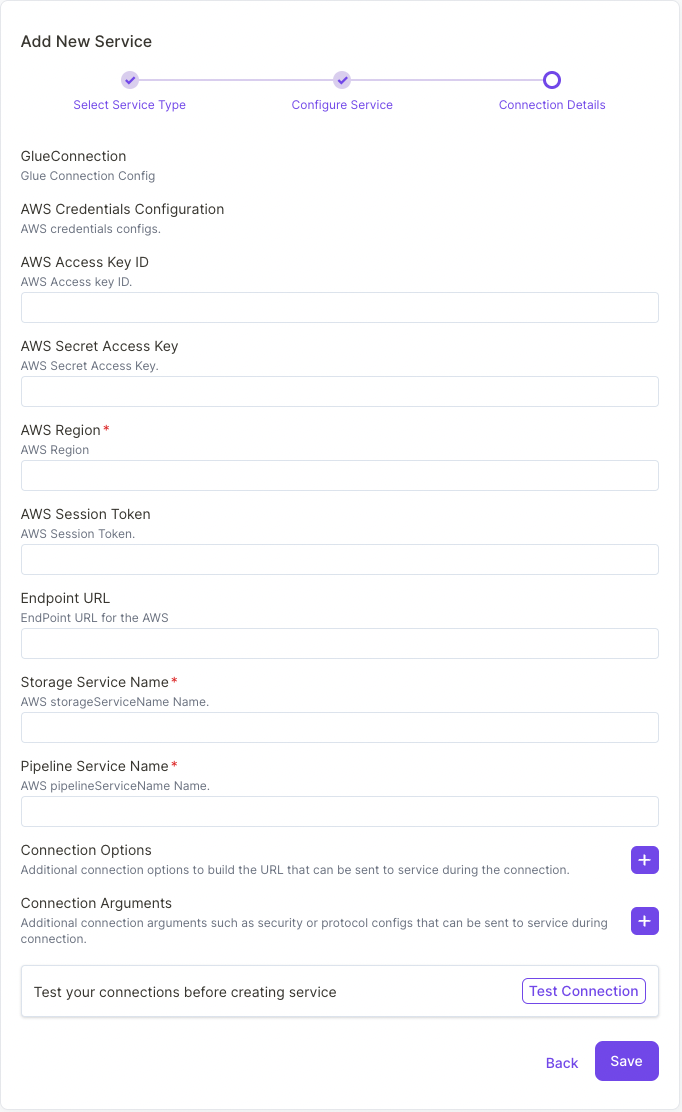
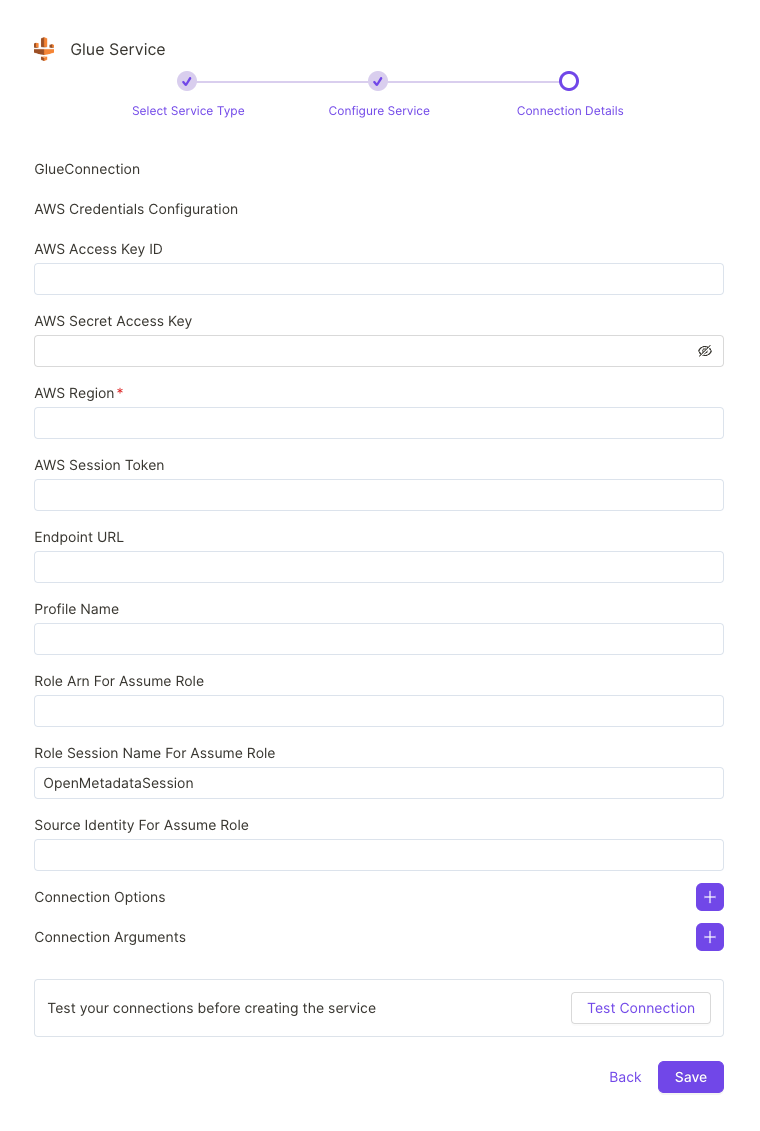
Rel to #10805 - Ingestion docs glue & Kerberos Dep (#11157)
* Glue

* Add kerberos system dep

diff --git a/openmetadata-ui/src/main/resources/ui/public/locales/en-US/Pipeline/GluePipeline.md b/openmetadata-ui/src/main/resources/ui/public/locales/en-US/Pipeline/GluePipeline.md
@@ -1,79 +1,144 @@
 # GluePipeline
 
-In this section, we provide guides and references to use the GluePipeline connector.
+In this section, we provide guides and references to use the Glue connector for Pipeline Services.
 
 # Requirements
-<!-- to be updated -->
+
+The Glue connector ingests metadata through AWS [Boto3](https://boto3.amazonaws.com/v1/documentation/api/latest/reference/services/glue.html) Client.
+We will ingest Workflows, its jobs and their run status.
+
+The user must have the following permissions for the ingestion to run successfully:
+
+- `glue:ListWorkflows`
+- `glue:GetWorkflow`
+- `glue:GetJobRuns`
+
 You can find further information on the Kafka connector in the [docs](https://docs.open-metadata.org/connectors/pipeline/gluepipeline).
 
 ## Connection Details
 
 $$section
-### Aws Config $(id="awsConfig")
+### AWS Access Key ID $(id="awsAccessKeyId")
 
-AWS credentials configs.
-<!-- awsConfig to be updated -->
+When you interact with AWS, you specify your AWS security credentials to verify who you are and whether you have
+permission to access the resources that you are requesting. AWS uses the security credentials to authenticate and
+authorize your requests ([docs](https://docs.aws.amazon.com/IAM/latest/UserGuide/security-creds.html)).
+
+Access keys consist of two parts:
+1. An access key ID (for example, `AKIAIOSFODNN7EXAMPLE`),
+2. And a secret access key (for example, `wJalrXUtnFEMI/K7MDENG/bPxRfiCYEXAMPLEKEY`).
+
+You must use both the access key ID and secret access key together to authenticate your requests.
+
+You can find further information on how to manage your access keys [here](https://docs.aws.amazon.com/IAM/latest/UserGuide/id_credentials_access-keys.html)
 $$
 
 $$section
-### Aws Access Key Id $(id="awsAccessKeyId")
+### AWS Secret Access Key $(id="awsSecretAccessKey")
 
-AWS Access key ID.
-<!-- awsAccessKeyId to be updated -->
-$$
-
-$$section
-### Aws Secret Access Key $(id="awsSecretAccessKey")
-
-AWS Secret Access Key.
-<!-- awsSecretAccessKey to be updated -->
+Secret access key (for example, `wJalrXUtnFEMI/K7MDENG/bPxRfiCYEXAMPLEKEY`).
 $$
 
 $$section
 ### Aws Region $(id="awsRegion")
 
-AWS Region
-<!-- awsRegion to be updated -->
+Each AWS Region is a separate geographic area in which AWS clusters data centers ([docs](https://docs.aws.amazon.com/AmazonRDS/latest/UserGuide/Concepts.RegionsAndAvailabilityZones.html)).
+
+As AWS can have instances in multiple regions, we need to know the region the service you want reach belongs to.
+
+Note that the AWS Region is the only required parameter when configuring a connection. When connecting to the
+services programmatically, there are different ways in which we can extract and use the rest of AWS configurations.
+You can find further information about configuring your credentials [here](https://boto3.amazonaws.com/v1/documentation/api/latest/guide/credentials.html#configuring-credentials).
 $$
 
 $$section
 ### Aws Session Token $(id="awsSessionToken")
 
-AWS Session Token.
-<!-- awsSessionToken to be updated -->
+If you are using temporary credentials to access your services, you will need to inform the AWS Access Key ID
+and AWS Secrets Access Key. Also, these will include an AWS Session Token.
+
+You can find more information on [Using temporary credentials with AWS resources](https://docs.aws.amazon.com/IAM/latest/UserGuide/id_credentials_temp_use-resources.html).
 $$
 
 $$section
 ### End Point URL $(id="endPointURL")
 
-EndPoint URL for the AWS
-<!-- endPointURL to be updated -->
+To connect programmatically to an AWS service, you use an endpoint. An *endpoint* is the URL of the
+entry point for an AWS web service. The AWS SDKs and the AWS Command Line Interface (AWS CLI) automatically use the
+default endpoint for each service in an AWS Region. But you can specify an alternate endpoint for your API requests.
+
+Find more information on [AWS service endpoints](https://docs.aws.amazon.com/general/latest/gr/rande.html).
 $$
 
 $$section
 ### Profile Name $(id="profileName")
 
-The name of a profile to use with the boto session.
-<!-- profileName to be updated -->
+A named profile is a collection of settings and credentials that you can apply to an AWS CLI command.
+When you specify a profile to run a command, the settings and credentials are used to run that command.
+Multiple named profiles can be stored in the config and credentials files.
+
+You can inform this field if you'd like to use a profile other than `default`.
+
+Find here more information about [Named profiles for the AWS CLI](https://docs.aws.amazon.com/cli/latest/userguide/cli-configure-profiles.html).
 $$
 
 $$section
 ### Assume Role Arn $(id="assumeRoleArn")
 
-The Amazon Resource Name (ARN) of the role to assume. Required Field in case of Assume Role
-<!-- assumeRoleArn to be updated -->
+Typically, you use `AssumeRole` within your account or for cross-account access. In this field you'll set the
+`ARN` (Amazon Resource Name) of the policy of the other account.
+
+A user who wants to access a role in a different account must also have permissions that are delegated from the account
+administrator. The administrator must attach a policy that allows the user to call `AssumeRole` for the `ARN` of the role in the other account.
+
+This is a required field if you'd like to `AssumeRole`.
+
+Find more information on [AssumeRole](https://docs.aws.amazon.com/STS/latest/APIReference/API_AssumeRole.html).
 $$
 
 $$section
 ### Assume Role Session Name $(id="assumeRoleSessionName")
 
-An identifier for the assumed role session. Use the role session name to uniquely identify a session when the same role is assumed by different principals or for different reasons. Required Field in case of Assume Role
-<!-- assumeRoleSessionName to be updated -->
+An identifier for the assumed role session. Use the role session name to uniquely identify a session when the same role
+is assumed by different principals or for different reasons.
+
+By default, we'll use the name `OpenMetadataSession`.
+
+Find more information about the [Role Session Name](https://docs.aws.amazon.com/STS/latest/APIReference/API_AssumeRole.html#:~:text=An%20identifier%20for%20the%20assumed%20role%20session.).
 $$
 
 $$section
 ### Assume Role Source Identity $(id="assumeRoleSourceIdentity")
 
-The Amazon Resource Name (ARN) of the role to assume. Optional Field in case of Assume Role
-<!-- assumeRoleSourceIdentity to be updated -->
+The source identity specified by the principal that is calling the `AssumeRole` operation. You can use source identity
+information in AWS CloudTrail logs to determine who took actions with a role.
+
+Find more information about [Source Identity](https://docs.aws.amazon.com/STS/latest/APIReference/API_AssumeRole.html#:~:text=Required%3A%20No-,SourceIdentity,-The%20source%20identity).
+$$
+
+$$section
+### Database Name $(id="databaseName")
+
+In OpenMetadata, the Database Service hierarchy works as follows:
+
+```
+Database Service > Database > Schema > Table
+```
+
+In the case of Athena, we won't have a Database as such. If you'd like to see your data in a database
+named something other than `default`, you can specify the name in this field.
+$$
+
+$$section
+### Connection Options $(id="connectionOptions")
+
+Additional connection options to build the URL that can be sent to service during the connection.
+<!-- connectionOptions to be updated -->
+$$
+
+$$section
+### Connection Arguments $(id="connectionArguments")
+
+Additional connection arguments such as security or protocol configs that can be sent to service during connection.
+<!-- connectionArguments to be updated -->
 $$

diff --git a/openmetadata-ui/src/main/resources/ui/public/locales/en-US/Database/Glue.md b/openmetadata-ui/src/main/resources/ui/public/locales/en-US/Database/Glue.md
@@ -13,20 +13,13 @@ You can find further information on the Glue connector in the [docs](https://doc
 ## Connection Details
 
 $$section
-### Aws Config $(id="awsConfig")
+### AWS Access Key ID $(id="awsAccessKeyId")
 
-AWS credentials configs.
-<!-- awsConfig to be updated -->
-$$
-
-$$section
-### Aws Access Key Id $(id="awsAccessKeyId")
-
-When you interact with AWS, you specify your AWS security credentials to verify who you are and whether you have 
+When you interact with AWS, you specify your AWS security credentials to verify who you are and whether you have
 permission to access the resources that you are requesting. AWS uses the security credentials to authenticate and
 authorize your requests ([docs](https://docs.aws.amazon.com/IAM/latest/UserGuide/security-creds.html)).
 
-Access keys consist of two parts: 
+Access keys consist of two parts:
 1. An access key ID (for example, `AKIAIOSFODNN7EXAMPLE`),
 2. And a secret access key (for example, `wJalrXUtnFEMI/K7MDENG/bPxRfiCYEXAMPLEKEY`).
 
@@ -36,24 +29,14 @@ You can find further information on how to manage your access keys [here](https:
 $$
 
 $$section
-### Aws Secret Access Key $(id="awsSecretAccessKey")
+### AWS Secret Access Key $(id="awsSecretAccessKey")
 
-When you interact with AWS, you specify your AWS security credentials to verify who you are and whether you have 
-permission to access the resources that you are requesting. AWS uses the security credentials to authenticate and
-authorize your requests ([docs](https://docs.aws.amazon.com/IAM/latest/UserGuide/security-creds.html)).
+Secret access key (for example, `wJalrXUtnFEMI/K7MDENG/bPxRfiCYEXAMPLEKEY`).
+$$
 
-Access keys consist of two parts: 
-1. An access key ID (for example, `AKIAIOSFODNN7EXAMPLE`),
-2. And a secret access key (for example, `wJalrXUtnFEMI/K7MDENG/bPxRfiCYEXAMPLEKEY`).
-
-You must use both the access key ID and secret access key together to authenticate your requests.
-
-You can find further information on how to manage your access keys [here](https://docs.aws.amazon.com/IAM/latest/UserGuide/id_credentials_access-keys.html)
-
+$$section
 ### Aws Region $(id="awsRegion")
-$$
 
-$$section
 Each AWS Region is a separate geographic area in which AWS clusters data centers ([docs](https://docs.aws.amazon.com/AmazonRDS/latest/UserGuide/Concepts.RegionsAndAvailabilityZones.html)).
 
 As AWS can have instances in multiple regions, we need to know the region the service you want reach belongs to.
@@ -75,8 +58,8 @@ $$
 $$section
 ### End Point URL $(id="endPointURL")
 
-To connect programmatically to an AWS service, you use an endpoint. An *endpoint* is the URL of the 
-entry point for an AWS web service. The AWS SDKs and the AWS Command Line Interface (AWS CLI) automatically use the 
+To connect programmatically to an AWS service, you use an endpoint. An *endpoint* is the URL of the
+entry point for an AWS web service. The AWS SDKs and the AWS Command Line Interface (AWS CLI) automatically use the
 default endpoint for each service in an AWS Region. But you can specify an alternate endpoint for your API requests.
 
 Find more information on [AWS service endpoints](https://docs.aws.amazon.com/general/latest/gr/rande.html).
@@ -85,8 +68,8 @@ $$
 $$section
 ### Profile Name $(id="profileName")
 
-A named profile is a collection of settings and credentials that you can apply to a AWS CLI command. 
-When you specify a profile to run a command, the settings and credentials are used to run that command. 
+A named profile is a collection of settings and credentials that you can apply to an AWS CLI command.
+When you specify a profile to run a command, the settings and credentials are used to run that command.
 Multiple named profiles can be stored in the config and credentials files.
 
 You can inform this field if you'd like to use a profile other than `default`.
@@ -98,9 +81,9 @@ $$section
 ### Assume Role Arn $(id="assumeRoleArn")
 
 Typically, you use `AssumeRole` within your account or for cross-account access. In this field you'll set the
-`ARN` (Amazon Resource Name) of the policy of the other account.  
+`ARN` (Amazon Resource Name) of the policy of the other account.
 
-A user who wants to access a role in a different account must also have permissions that are delegated from the account 
+A user who wants to access a role in a different account must also have permissions that are delegated from the account
 administrator. The administrator must attach a policy that allows the user to call `AssumeRole` for the `ARN` of the role in the other account.
 
 This is a required field if you'd like to `AssumeRole`.
@@ -129,12 +112,16 @@ Find more information about [Source Identity](https://docs.aws.amazon.com/STS/la
 $$
 
 $$section
-### Storage Service Name $(id="storageServiceName")
+### Database Name $(id="databaseName")
 
-Glue represents external tables living in a Storage Service in AWS.
+In OpenMetadata, the Database Service hierarchy works as follows:
 
-This parameter assigns a name to the Storage Service that will also be ingested in OpenMetadata when
-extracting the tables' locations.
+```
+Database Service > Database > Schema > Table
+```
+
+In the case of Athena, we won't have a Database as such. If you'd like to see your data in a database
+named something other than `default`, you can specify the name in this field.
 $$
 
 $$section

diff --git a/openmetadata-ui/src/main/resources/ui/public/locales/en-US/Database/Athena.md b/openmetadata-ui/src/main/resources/ui/public/locales/en-US/Database/Athena.md
@@ -114,16 +114,10 @@ You can find further information on the Athena connector in the [docs](https://d
 $$section
 ### Scheme $(id="scheme")
 
-SQLAlchemy driver scheme options.
-<!-- scheme to be updated -->
+Driver to connect to Athena.
+
 $$
 
-$$section
-### AWS Config $(id="awsConfig")
-
-AWS credentials configs.
-<!-- awsConfig to be updated -->
-$$
 
 $$section
 ### AWS Access Key ID $(id="awsAccessKeyId")
@@ -181,7 +175,7 @@ $$
 $$section
 ### Profile Name $(id="profileName")
 
-A named profile is a collection of settings and credentials that you can apply to a AWS CLI command. 
+A named profile is a collection of settings and credentials that you can apply to an AWS CLI command. 
 When you specify a profile to run a command, the settings and credentials are used to run that command. 
 Multiple named profiles can be stored in the config and credentials files.
 

diff --git a/openmetadata-docs-v1/content/v1.0.0/connectors/pipeline/glue-pipeline/cli.md b/openmetadata-docs-v1/content/v1.0.0/connectors/pipeline/glue-pipeline/cli.md
@@ -17,8 +17,14 @@ Configure and schedule Glue metadata and profiler workflows from the OpenMetadat
 To deploy OpenMetadata, check the Deployment guides.
 {% /inlineCallout %}
 
-To run the Ingestion via the UI you'll need to use the OpenMetadata Ingestion Container, which comes shipped with
-custom Airflow plugins to handle the workflow deployment.
+The Glue connector ingests metadata through AWS [Boto3](https://boto3.amazonaws.com/v1/documentation/api/latest/reference/services/glue.html) Client.
+We will ingest Workflows, its jobs and their run status.
+
+The user must have the following permissions for the ingestion to run successfully:
+
+- `glue:ListWorkflows`
+- `glue:GetWorkflow`
+- `glue:GetJobRuns`
 
 ### Python Requirements
 

diff --git a/openmetadata-docs-v1/content/v1.0.0/connectors/pipeline/glue-pipeline/airflow.md b/openmetadata-docs-v1/content/v1.0.0/connectors/pipeline/glue-pipeline/airflow.md
@@ -18,8 +18,14 @@ Configure and schedule Glue metadata and profiler workflows from the OpenMetadat
 To deploy OpenMetadata, check the Deployment guides.
 {%/inlineCallout%}
 
-To run the Ingestion via the UI you'll need to use the OpenMetadata Ingestion Container, which comes shipped with
-custom Airflow plugins to handle the workflow deployment.
+The Glue connector ingests metadata through AWS [Boto3](https://boto3.amazonaws.com/v1/documentation/api/latest/reference/services/glue.html) Client.
+We will ingest Workflows, its jobs and their run status.
+
+The user must have the following permissions for the ingestion to run successfully:
+
+- `glue:ListWorkflows`
+- `glue:GetWorkflow`
+- `glue:GetJobRuns`
 
 ### Python Requirements
 

diff --git a/openmetadata-docs-v1/content/v1.0.0/connectors/pipeline/glue-pipeline/index.md b/openmetadata-docs-v1/content/v1.0.0/connectors/pipeline/glue-pipeline/index.md
@@ -38,6 +38,14 @@ To deploy OpenMetadata, check the Deployment guides.
 To run the Ingestion via the UI you'll need to use the OpenMetadata Ingestion Container, which comes shipped with
 custom Airflow plugins to handle the workflow deployment.
 
+The Glue connector ingests metadata through AWS [Boto3](https://boto3.amazonaws.com/v1/documentation/api/latest/reference/services/glue.html) Client.
+We will ingest Workflows, its jobs and their run status.
+
+The user must have the following permissions for the ingestion to run successfully:
+
+- `glue:ListWorkflows`
+- `glue:GetWorkflow`
+- `glue:GetJobRuns`
 
 ## Metadata Ingestion
 
